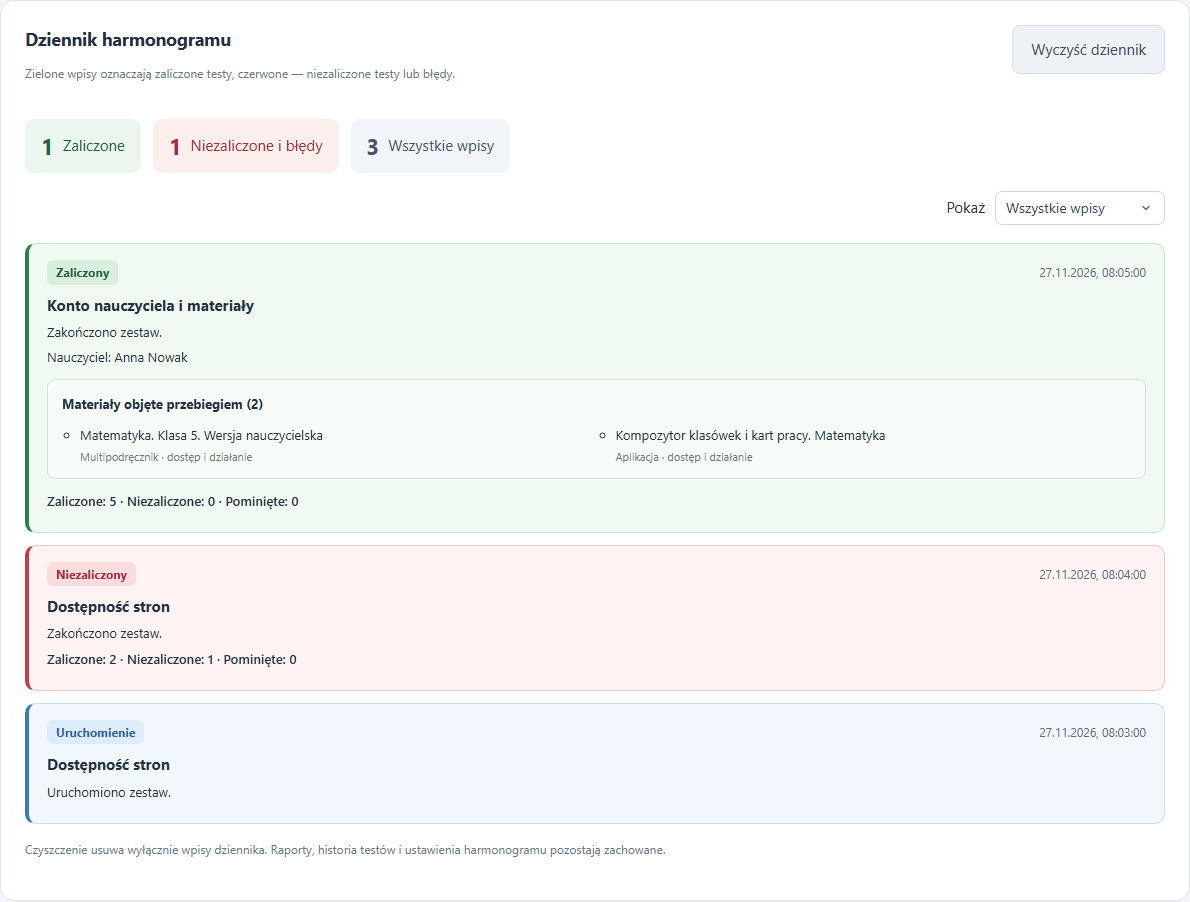
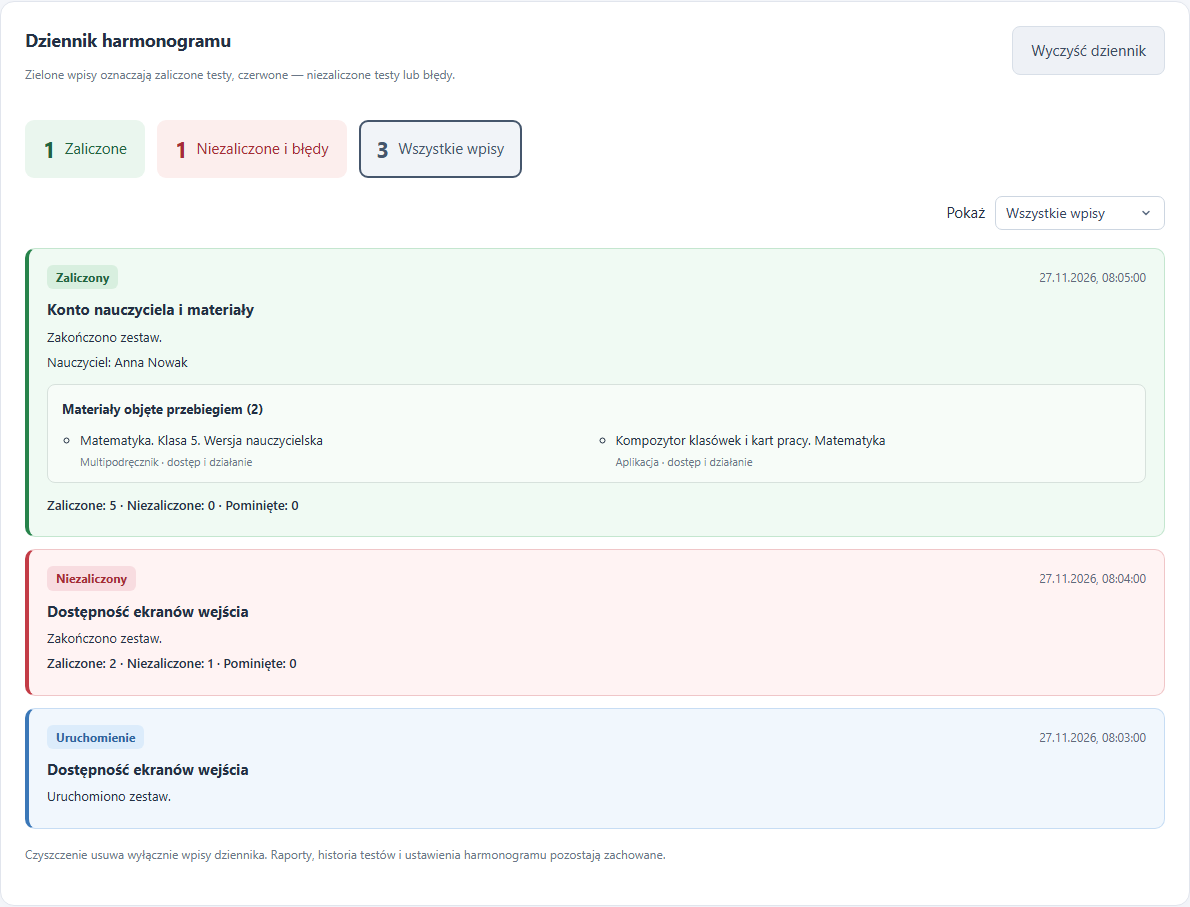
Verify composer project list data and rendered entries; clarify entry-screen checks

diff --git a/dashboard/scenarios.js b/dashboard/scenarios.js
@@ -1,7 +1,7 @@
 (() => {
  const $=selector=>document.querySelector(selector),container=$('#scenario-groups');
  if(!container)return;
- const groups={functional:{title:'Konto nauczyciela i materiały',description:'Ogólne przykłady kontroli. Podczas uruchomienia są wykonywane dla materiałów wybranego nauczyciela; konkretne tytuły i wyniki znajdziesz w konfiguracji oraz raporcie.'},websites:{title:'Dostępność stron',description:'Anonimowe otwarcie trzech stron i sprawdzenie ich gotowości.'},services:{title:'Endpointy healthcheck usług',description:'Odpowiedź JSON, czas odpowiedzi i nagłówki cache. Wymaga potwierdzonych adresów endpointów.'},load:{title:'Obciążenie TEST',description:'Ręcznie uruchamiane testy k6 na środowisku TEST.'},manual:{title:'Scenariusze ręczne',description:'Instrukcje do samodzielnego wykonania w uzgodnionych warunkach. Nie uruchamiają się automatycznie ani z harmonogramu.'}};
+ const groups={functional:{title:'Konto nauczyciela i materiały',description:'Ogólne przykłady kontroli. Podczas uruchomienia są wykonywane dla materiałów wybranego nauczyciela; konkretne tytuły i wyniki znajdziesz w konfiguracji oraz raporcie.'},websites:{title:'Dostępność ekranów wejścia',description:'Anonimowe sprawdzenie ekranów wejścia lub logowania; bez potwierdzania działania materiałów.'},services:{title:'Endpointy healthcheck usług',description:'Odpowiedź JSON, czas odpowiedzi i nagłówki cache. Wymaga potwierdzonych adresów endpointów.'},load:{title:'Obciążenie TEST',description:'Ręcznie uruchamiane testy k6 na środowisku TEST.'},manual:{title:'Scenariusze ręczne',description:'Instrukcje do samodzielnego wykonania w uzgodnionych warunkach. Nie uruchamiają się automatycznie ani z harmonogramu.'}};
  const groupOf=test=>test.type==='manual'?'manual':test.file==='tests/website-availability.spec.mjs'?'websites':test.file==='tests/service-health.spec.mjs'?'services':test.file?.startsWith('load/')?'load':'functional';
  const element=(tag,text,className)=>{const node=document.createElement(tag);if(text)node.textContent=text;if(className)node.className=className;return node;};
  const counted=(count,one,few,many)=>count+' '+(count===1?one:count%10>=2&&count%10<=4&&(count%100<12||count%100>14)?few:many);
@@ -10,7 +10,7 @@
   ['HC-01','Konto nauczyciela i sesja','Potwierdzenie, że panel działa i zalogowano właściwego nauczyciela.','Otwórz panel. Porównaj nazwę i identyfikator konta z API oraz widoczną nazwą. Sprawdź wymaganą rolę nauczyciela.'],
   ['HC-02','Aktywny dostęp do materiału','Materiał jest przypisany do konta jako aktywny dostęp nauczycielski.','Odczytaj listę dostępów z API. Rozpoznaj materiał po pełnej nazwie i identyfikatorze, znajdź jego kafelek i sprawdź ważność dostępu.'],
   ['HC-03/czytnik','Multipodręcznik — otwarcie i zmiana stron','Czytnik wyświetla załadowane obrazy, a przejście dalej zmienia strony i ich obrazy.','Uruchom multipodręcznik z kafelka. Poczekaj na obrazy, zapamiętaj oznaczenie stron i ich źródła, kliknij następną stronę i potwierdź zmianę oraz załadowanie nowej treści.'],
-  ['HC-03/kompozytor','Kompozytor — klasa i lista zestawów','Można wejść do skonfigurowanej klasy lub biblioteki i zobaczyć zakładkę „Twoje zestawy”.','Uruchom Kompozytor z kafelka. Wybierz klasę lub bibliotekę wskazaną w materiale, sprawdź dostęp i otwórz jej widok. Potwierdź „Twoje zestawy”. Test nie tworzy ani nie usuwa zestawów.'],
+  ['HC-03/kompozytor','Kompozytor — klasa i lista zestawów','Lista „Twoje zestawy” została pobrana i wyświetlona; poprawnie obsługiwana jest też pusta lista.','Uruchom Kompozytor z kafelka. Wybierz klasę lub bibliotekę wskazaną w materiale, sprawdź dostęp i otwórz jej widok. Potwierdź odpowiedź HTTP 200 i poprawne dane listy. Otwórz „Twoje zestawy” i porównaj liczbę oraz nazwy pozycji z odpowiedzią. Dla pustej listy wymagaj komunikatu o braku zestawów. Ładowanie musi się zakończyć. Test nie tworzy ani nie usuwa zestawów.'],
   ['HC-03/karty-pracy','Karty pracy — katalog klas 1–3','Katalog pokazuje propozycje i poprawnie załadowane obrazy zadań.','Otwórz aplikację i przejdź do widoku komponowania. Potwierdź klasy 1–3, propozycje zadań i ich obrazy. Nie zapisuj zestawu.']
  ].map(([code,title,expected,steps])=>({id:'example:'+code,code,title,expected,steps,example:true,type:'automatic',file:'tests/health.spec.mjs',preconditions:['Właściwe środowisko i skonfigurowany profil nauczyciela.','Dany wariant jest wykonywany tylko dla materiałów z takim sposobem sprawdzania.']}));
  function render(){

diff --git a/dashboard/panel.js b/dashboard/panel.js
@@ -1,7 +1,7 @@
 const $=s=>document.querySelector(s);
 const esc=s=>String(s??'').replace(/[&<>"']/g,c=>({'&':'&amp;','<':'&lt;','>':'&gt;','"':'&quot;',"'":'&#39;'}[c]));
 const names={PASS:'Zaliczony',FAIL:'Niezaliczony',RUNNING:'W trakcie',STOPPED:'Zatrzymany',passed:'Zaliczony',failed:'Błąd',skipped:'Pominięty',timedOut:'Przekroczony czas'};
-const runName=run=>({functional:'Konto i materiały',websites:'Dostępność stron',services:'Healthcheck usług',load:'Obciążenie TEST'}[run.suite]||'Testy')+(run.profileLabel&&!['websites','services'].includes(run.suite)?' · '+run.profileLabel:'');
+const runName=run=>({functional:'Konto i materiały',websites:'Dostępność ekranów wejścia',services:'Healthcheck usług',load:'Obciążenie TEST'}[run.suite]||'Testy')+(run.profileLabel&&!['websites','services'].includes(run.suite)?' · '+run.profileLabel:'');
 let selected='',state=null,loading=false,previewKey='',refreshing=false;
 let galleryKey='',screenshots=[],screenshotIndex=0;
 const screenshotTitle=image=>image.testTitle.split(' · ')[0];
@@ -44,7 +44,7 @@ function renderHeaderStatus(){
  const stopSchedule=document.body.dataset.environment==='prod'&&(schedule?.enabled||schedule?.running);
  if(stop){stop.hidden=!state.running&&!stopSchedule;stop.disabled=stopPending||state.stopping||state.busy||(state.running&&!state.activeRunId);stop.textContent=stopPending||state.stopping?'Zatrzymywanie…':stopSchedule?'Zatrzymaj harmonogram':'Zatrzymaj test';}
  status.classList.toggle('is-running',!!running);
- if(running){setText(status,'Testy w toku'+(run?' · '+({functional:'Konto i materiały',websites:'Dostępność stron',services:'Healthcheck usług',load:'Obciążenie TEST'}[run.suite]||'Trwa przebieg'): ' · Przygotowanie przebiegu'));status.href='#live';}
+ if(running){setText(status,'Testy w toku'+(run?' · '+({functional:'Konto i materiały',websites:'Dostępność ekranów wejścia',services:'Healthcheck usług',load:'Obciążenie TEST'}[run.suite]||'Trwa przebieg'): ' · Przygotowanie przebiegu'));status.href='#live';}
  else if(state.busy){setText(status,'Trwa odczyt lub zapis konfiguracji');status.href='#teachers';}
  else if(schedule?.enabled){const next=new Date(schedule.nextRunAt);setText(status,schedule.nextRunAt&&Number.isFinite(next.getTime())?'Kolejny test: '+nextTestTime.format(next):'Harmonogram włączony · Oczekiwanie na termin');status.href='#schedule';}
  else{setText(status,document.body.dataset.environment==='prod'?'Harmonogram wyłączony':'Testy uruchamiane ręcznie');status.href='#run';}
@@ -113,7 +113,7 @@ async function refresh(){
   if(document.body.dataset.environment==='prod')window.renderSchedule?.(state);
   if(document.body.dataset.environment==='prod')window.renderNotifications?.(state);
   $('#run-heading').textContent=(websiteSuite?3:serviceSuite?state.serviceHealth.expectedCount:state.expectedCount)+' kontroli · '+(document.body.dataset.environment==='prod'?'PROD':'TEST');
-  $('#run-scope').textContent=websiteSuite?'3 strony: HTTPS, odpowiedź właściwej aplikacji, oczekiwany publiczny ekran i czas do 15 sekund. Bez logowania; zrzuty ekranów są w raporcie.':serviceSuite?'9 kontroli kontraktu trzech usług. Brak logowania, wyłączania zależności i automatycznej akceptacji odbioru.':'Zakres wynika z materiałów przypisanych do wybranego nauczyciela. Tylko włączone materiały biorą udział w testach.';
+  $('#run-scope').textContent=websiteSuite?'3 ekrany wejścia: HTTPS, odpowiedź właściwej aplikacji, oczekiwany publiczny ekran i czas do 15 sekund. Bez logowania; zrzuty ekranów są w raporcie.':serviceSuite?'9 kontroli kontraktu trzech usług. Brak logowania, wyłączania zależności i automatycznej akceptacji odbioru.':'Zakres wynika z materiałów przypisanych do wybranego nauczyciela. Tylko włączone materiały biorą udział w testach.';
   window.renderScenarios?.(state);
   const last=state.history[0];$('#last-result').textContent=last?(names[last.status]||last.status):'Brak wyników';$('#last-count').textContent=last?.counts?`${last.counts.passed} / ${last.expectedCount||5}`:'—';
   if(!selected&&last)selected=last.id;

diff --git a/dashboard/schedule.js b/dashboard/schedule.js
@@ -5,7 +5,7 @@
  function scope(suites,profileId){
   const parts=[],teacher=profiles.find(profile=>profile.id===profileId);
   if(suites.includes('functional')){const resources=(teacher?.resources||[]).filter(resource=>resource.enabled!==false);const count=1+resources.reduce((total,resource)=>total+1+(resource.checkMode==='access'?0:1),0);parts.push('Konto i materiały — '+(teacher?.label||'wybierz nauczyciela')+(resources.length?' ('+count+' kontroli)':' (brak przypisanych materiałów)'));}
-  if(suites.includes('websites'))parts.push('Dostępność stron — 3 kontrole bez logowania');
+  if(suites.includes('websites'))parts.push('Dostępność ekranów wejścia — 3 kontrole bez logowania');
   if(suites.includes('services'))parts.push('Endpointy healthcheck — 9 kontroli');
   return parts.join(' + ');
  }
@@ -44,7 +44,7 @@
    const top=document.createElement('div');top.className='schedule-event-top';
    const badge=document.createElement('span');badge.className='schedule-event-badge';badge.textContent=labels[event.type]||event.type;
    const time=document.createElement('time');time.dateTime=event.at;time.textContent=when(event.at);top.append(badge,time);
-   const title=document.createElement('strong');title.className='schedule-event-title';title.textContent=({functional:'Konto nauczyciela i materiały',websites:'Dostępność stron',services:'Endpointy healthcheck'})[event.suite]||'Harmonogram';
+   const title=document.createElement('strong');title.className='schedule-event-title';title.textContent=({functional:'Konto nauczyciela i materiały',websites:'Dostępność ekranów wejścia',services:'Endpointy healthcheck'})[event.suite]||'Harmonogram';
    const message=document.createElement('p');message.textContent=event.message;
    li.append(top,title,message);
    if(event.suite==='functional'&&['PASS','FAIL','ERROR'].includes(event.type)){

diff --git a/dashboard/teachers.js b/dashboard/teachers.js
@@ -52,7 +52,7 @@
   entry.placeholder=worksheets?worksheetURL:'';
   if(worksheets&&!entry.value.trim())entry.value=worksheetURL;
   const recognized=!!t?.approvedRules||['composer','worksheets'].includes(adapter);$('#rules-field').hidden=!recognized;f.elements.acceptRules.disabled=!recognized;if(!recognized)f.elements.acceptRules.checked=false;
-  $('#adapter-note').textContent=adapter==='access'?'Sprawdzimy obecność i ważność dostępu. Działanie aplikacji nie będzie oznaczone jako sprawdzone.':adapter==='reader'?'Sprawdzimy obrazy stron oraz przejście do następnej rozkładówki.':adapter==='worksheets'?'Sprawdzimy katalog i załadowane zadania dla klas 1–3, blokując zapis zestawów.':adapter==='composer'?'Wpisz numer klasy z kafelka w Kompozytorze, np. 6. Sprawdzimy wejście do tej klasy i listę „Twoje zestawy”, bez zmiany zestawów. Grupę z „Moich dostępów” wpisz w osobnym polu poniżej.':'Użyjemy wcześniej skonfigurowanej czynności ze wzorca. Wybierz wzorzec pasujący do tej aplikacji.';
+  $('#adapter-note').textContent=adapter==='access'?'Sprawdzimy obecność i ważność dostępu. Działanie aplikacji nie będzie oznaczone jako sprawdzone.':adapter==='reader'?'Sprawdzimy obrazy stron oraz przejście do następnej rozkładówki.':adapter==='worksheets'?'Sprawdzimy katalog i załadowane zadania dla klas 1–3, blokując zapis zestawów.':adapter==='composer'?'Wpisz numer klasy z kafelka w Kompozytorze, np. 6. Sprawdzimy wejście do tej klasy, pobranie listy „Twoje zestawy” i wyświetlenie jej zawartości albo potwierdzonej pustej listy, bez zmiany zestawów. Grupę z „Moich dostępów” wpisz w osobnym polu poniżej.':'Użyjemy wcześniej skonfigurowanej czynności ze wzorca. Wybierz wzorzec pasujący do tej aplikacji.';
  }
  $('#add-teacher').onclick=()=>editor();
  $('#teacher-form').onsubmit=async e=>{

diff --git a/docs/INSTRUKCJA_KONFIGURACJI.md b/docs/INSTRUKCJA_KONFIGURACJI.md
@@ -221,7 +221,7 @@ Przy wybranym, aktywnym dostępie nauczycielskim kliknij **Dodaj do kontroli**. 
 | --- | --- | --- |
 | Tylko obecność i ważność dostępu | Materiał oraz rodzaj. | Dostęp nauczycielski i jego ważność; materiał nie jest otwierany. |
 | Czytnik — dostęp i zmiana stron | Multipodręcznik; grupa i adres, jeśli są potrzebne do rozpoznania. | Otwarcie czytnika, załadowane obrazy stron i przejście do następnej rozkładówki. |
-| Kompozytor — dostęp i lista zestawów | Rodzaj **Aplikacja**, właściwy adres i nazwa klasy lub biblioteki, np. `7`. | Otwarcie wskazanej klasy/biblioteki i pojawienie się zakładki **Twoje zestawy**. |
+| Kompozytor — dostęp i lista zestawów | Rodzaj **Aplikacja**, właściwy adres i nazwa klasy lub biblioteki, np. `7`. | Otwarcie klasy/biblioteki, poprawne pobranie i wyświetlenie listy **Twoje zestawy** albo potwierdzonej pustej listy. |
 | Karty pracy — katalog zadań klas 1–3 | Rodzaj **Aplikacja** i adres katalogu danego środowiska. | Katalog i obrazy zadań w widoku komponowania; bez zapisywania zestawu. |
 | Pełny test według istniejącego wzorca | Wzorzec pasujący do konkretnej aplikacji. | Czynność i rezultat z wcześniej przygotowanego wzorca. |
 
@@ -292,7 +292,7 @@ Wybierz **Kompozytor — dostęp i lista zestawów**. Wpisz klasę lub bibliotek
 
 ![Konfiguracja Kompozytora z wyborem klasy](images/konfiguracja-kompozytora.png)
 
-Test otwiera bibliotekę i sprawdza **Twoje zestawy**. Nie tworzy, nie edytuje i nie usuwa zestawów. Zgodę na automatyczną akceptację regulaminu zaznaczaj świadomie dla rozpoznanej aplikacji; bez zapisanej zgody blokujący regulamin wymaga obsługi przed testem.
+Test otwiera bibliotekę i sprawdza **Twoje zestawy**: odpowiedź HTTP 200, listę JSON dla właściwej biblioteki, zakończenie ładowania oraz zgodność liczby i nazw widocznych zestawów z serwerem. Gdy lista z API jest pusta (`[]`), wymaga komunikatu „Nie masz jeszcze utworzonego zestawu zadań.”. Sam widoczny przycisk zakładki, loader, błąd serwera lub niepoprawna odpowiedź nie zaliczają testu. Raport zawiera potwierdzenie pobrania listy i liczbę zestawów. Test nie tworzy, nie edytuje i nie usuwa zestawów. Zgodę na automatyczną akceptację regulaminu zaznaczaj świadomie dla rozpoznanej aplikacji; bez zapisanej zgody blokujący regulamin wymaga obsługi przed testem.
 
 ### Karty pracy i wzorce
 
@@ -346,7 +346,7 @@ Widok **Scenariusze** opisuje kontrole, a nie wyniki. Zestawy są pogrupowane; m
 
 Harmonogram jest dostępny w **PROD → Harmonogram**.
 
-1. Zaznacz **Konto nauczyciela i materiały**, **Dostępność stron** albo oba zestawy.
+1. Zaznacz **Konto nauczyciela i materiały**, **Dostępność ekranów wejścia** albo oba zestawy.
 2. Dla zestawu konta wybierz nauczyciela. Będą używane jego aktualne, włączone materiały. Wybór harmonogramu jest niezależny od ręcznego wyboru nauczyciela.
 3. Ustaw odstęp od 1 do 10080 minut.
 4. Zaznacz automatyczne uruchamianie i kliknij **Zapisz wybór i harmonogram**.
@@ -364,9 +364,9 @@ Liczniki podsumowują **ostatnie 100 wpisów dziennika**, nie całą historię i
 
 ## 9. Pozostałe zestawy i Mattermost
 
-### Dostępność stron — PROD
+### Dostępność ekranów wejścia — PROD
 
-W **Uruchom testy** wybierz **Dostępność stron — 3 strony**. Zestaw otwiera publiczne ekrany moje.gwo, Multipodręczników i Kompozytora, sprawdza odpowiedź, właściwy ekran oraz czas do 15 sekund. Nie wymaga konta nauczyciela ani przypisanych materiałów; wymaga włączonego PROD i właściwej listy dozwolonych domen. Można wybrać go również w harmonogramie.
+W **Uruchom testy** wybierz **Dostępność ekranów wejścia — 3 ekrany**. Zestaw otwiera publiczne ekrany moje.gwo, Multipodręczników i Kompozytora, sprawdza odpowiedź, właściwy ekran oraz czas do 15 sekund. Nie wymaga konta nauczyciela ani przypisanych materiałów; wymaga włączonego PROD i właściwej listy dozwolonych domen. Można wybrać go również w harmonogramie.
 
 ### Endpointy healthcheck — TEST i PROD
 

diff --git a/README.md b/README.md
@@ -106,7 +106,8 @@ Czytnik zapisuje dwa zrzuty do raportu i ręcznej galerii: **1. Po otwarciu mult
 
 1. Odnajduje bibliotekę lub klasę wskazaną w konfiguracji materiału. Przy kilku dostępach do tego samego katalogu wybiera jednoznaczny aktywny dostęp z najpóźniejszym terminem ważności; niejednoznaczność kończy się błędem.
 2. Sprawdza widoczność właściwej karty i brak komunikatu **Dostęp zakończony** dla wybranego dostępu.
-3. Klika kartę klasy lub biblioteki i wymaga pojawienia się zakładki **Twoje zestawy**. Nie tworzy, nie edytuje, nie drukuje ani nie usuwa zestawów; nie sprawdza też treści wszystkich istniejących zestawów.
+3. Klika kartę klasy lub biblioteki i wymaga poprawnego pobrania listy **Twoje zestawy**: HTTP 200, JSON z listą i odpowiedź dla wybranej biblioteki.
+4. Otwiera **Twoje zestawy**, czeka na zakończenie ładowania i porównuje liczbę oraz nazwy pozycji z odpowiedzią serwera. Pusta lista przechodzi tylko przy odpowiedzi `[]` i komunikacie o braku zestawów. Błąd pobierania, niepoprawne dane lub sam widoczny nagłówek nie wystarczają. Nie tworzy, nie edytuje, nie drukuje ani nie usuwa zestawów; nie otwiera treści wszystkich zestawów.
 
 Każdy test działania Kompozytora zapisuje dwa zrzuty: **1. Po otwarciu aplikacji** i **2. Po sprawdzeniu funkcji**. Dla matematyki i fizyki drugi obraz pokazuje ekran po wejściu do klasy z zakładką **Twoje zestawy**, a dla edukacji wczesnoszkolnej — załadowany katalog zadań. Ten sam układ obowiązuje w raporcie i ręcznej galerii panelu; wcześniejsze przebiegi zachowują dotychczasowe obrazy.
 
@@ -116,7 +117,7 @@ Regulamin może zostać zaakceptowany automatycznie tylko przy zapisanej zgodzie
 
 W panelu **PROD → Harmonogram**:
 
-1. Zaznacz testy: **Konto nauczyciela i materiały**, **Dostępność stron** albo oba zestawy. Opisy przy wyborze wyjaśniają ich zakres.
+1. Zaznacz testy: **Konto nauczyciela i materiały**, **Dostępność ekranów wejścia** albo oba zestawy. Opisy przy wyborze wyjaśniają ich zakres.
 2. Dla testów konta wybierz nauczyciela. Panel pokaże jego zakres i liczbę kontroli. Same testy dostępności stron nie wymagają konta.
 3. Ustaw odstęp, zaznacz automatyczne uruchamianie i kliknij **Zapisz wybór i harmonogram**. Podsumowanie rozróżnia zapisany zakres i zmiany oczekujące na zapis.
 
